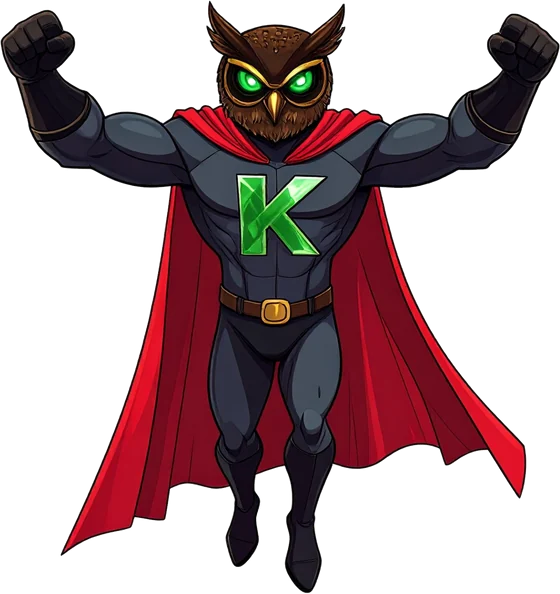
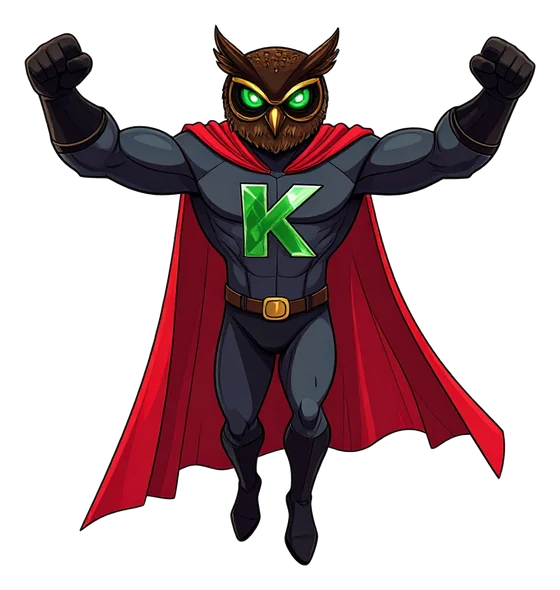
Hero comes alive: billowing cape, glowing K and eyes, real dive motion
The hero is now a body layer over a separate cape, with clean edges (no
white outline). The cape sways while he hovers and flutters while he
moves; the K and eyes pulse green. He crouches before the dive, wobbles
and stretches as he falls, squashes on each rip, and trails speed lines.
Removed the hand-drawn birds that didn't match the art.

Claude-Session: https://claude.ai/code/session_01AFesTq58cik2Kzgpt88zTm

Changed region(s): [[0.0, 0.0, 1.0, 1.0]]

diff --git a/index.html b/index.html
@@ -223,17 +223,49 @@ button{cursor:pointer}
   content:"";position:absolute;inset:0;pointer-events:none;opacity:.7;mix-blend-mode:multiply;z-index:0;
   background:linear-gradient(115deg,#ffd400,#ff7ac6,#7fe0ff,#b9ff9e,#ffd400);background-size:300% 300%;animation:foil 3.5s linear infinite;
 }
-/* Hero: one drawing. Upright to hover and fly up, flipped head-first for the dive. */
+/* Hero: a body layer over a cape layer, with glowing K and eyes. Upright to hover and fly up,
+   flipped head-first for the dive. The cape billows from the shoulders. */
 .hero{position:absolute;left:0;top:0;width:var(--hw);height:var(--hh);z-index:6;pointer-events:none;will-change:transform}
 .hero .bob{position:relative;width:100%;height:100%}
-.hero.hovering .bob{animation:bob 2.2s ease-in-out infinite}
-.hero .hs{position:absolute;left:50%;top:50%;height:112%;width:auto;max-width:none;transform:translate(-50%,-50%);transition:transform .34s cubic-bezier(.3,1.45,.5,1);user-select:none;-webkit-user-drag:none}
-.hero:not(.up) .hs{transform:translate(-50%,-50%) rotate(180deg)}
-@keyframes bob{0%,100%{transform:translateY(0) rotate(-1.5deg)}50%{transform:translateY(-8px) rotate(1.5deg)}}
-.aura{position:absolute;left:50%;bottom:calc(var(--hw) * -0.28);width:calc(var(--hw) * 1.25);height:calc(var(--hw) * 0.42);transform:translateX(-50%);opacity:0;transition:opacity .3s}
+.hero.hovering .bob{animation:bob 2.4s ease-in-out infinite}
+@keyframes bob{0%,100%{transform:translateY(0) rotate(-2deg)}50%{transform:translateY(-10px) rotate(2deg)}}
+.hero .fig{position:absolute;left:50%;top:50%;height:114%;aspect-ratio:560/590;transform:translate(-50%,-50%);transition:transform .34s cubic-bezier(.3,1.45,.5,1)}
+.hero:not(.up) .fig{transform:translate(-50%,-50%) rotate(180deg)}
+.hero .wob{position:absolute;inset:0;transform-origin:50% 55%}
+.hero .l{position:absolute;inset:0;width:100%;height:100%;display:block;user-select:none;-webkit-user-drag:none}
+.hero .cape{transform-origin:50% 27%}
+.hero .kg,.hero .eg{opacity:.3}
+.hero.hovering .wob{animation:breathe 2.4s ease-in-out infinite}
+@keyframes breathe{0%,100%{transform:scale(1,1)}50%{transform:scale(1.02,1.035)}}
+.hero.hovering .cape{animation:capeIdle 2.8s ease-in-out infinite}
+@keyframes capeIdle{0%,100%{transform:skewX(0deg) scale(1,1)}25%{transform:skewX(4deg) scale(1.04,1.02)}50%{transform:skewX(0deg) scale(1.08,.98)}75%{transform:skewX(-4deg) scale(1.04,1.02)}}
+.hero.hovering .kg{animation:glowk 2.4s ease-in-out infinite}
+.hero.hovering .eg{animation:glowk 3.2s ease-in-out infinite .7s}
+@keyframes glowk{0%,100%{opacity:.25}50%{opacity:1}}
+.hero.falling .wob,.hero.rising .wob{animation:wobble .34s ease-in-out infinite alternate}
+@keyframes wobble{from{transform:rotate(-5deg) scale(.95,1.08)}to{transform:rotate(5deg) scale(.95,1.08)}}
+.hero.falling .cape,.hero.rising .cape{animation:capeFlap .18s ease-in-out infinite alternate}
+@keyframes capeFlap{from{transform:skewX(-8deg) scale(.95,1.06)}to{transform:skewX(8deg) scale(1.06,1.14)}}
+.hero.falling .kg,.hero.rising .kg,.hero.falling .eg,.hero.rising .eg{opacity:.95}
+/* speed lines trail behind the hero while he dives or climbs */
+.hero .trail{position:absolute;left:8%;right:8%;height:150%;opacity:0;transition:opacity .15s}
+.hero.falling .trail{bottom:70%;opacity:1}
+.hero.rising .trail{top:70%;opacity:1}
+.trail i{position:absolute;top:0;width:3px;border-radius:3px;background:#fff;box-shadow:0 0 0 1.5px var(--ink);animation:speedDn .3s linear infinite}
+.hero.rising .trail i{animation-name:speedUp}
+.trail i:nth-child(1){left:6%;height:42%;animation-delay:-.05s}
+.trail i:nth-child(2){left:24%;height:60%;animation-delay:-.2s}
+.trail i:nth-child(3){left:42%;height:34%;animation-delay:-.12s}
+.trail i:nth-child(4){left:58%;height:56%;animation-delay:-.26s}
+.trail i:nth-child(5){left:76%;height:38%;animation-delay:-.09s}
+.trail i:nth-child(6){left:93%;height:50%;animation-delay:-.17s}
+@keyframes speedDn{0%{transform:translateY(-30%);opacity:0}25%{opacity:1}100%{transform:translateY(130%);opacity:0}}
+@keyframes speedUp{0%{transform:translateY(130%);opacity:0}25%{opacity:1}100%{transform:translateY(-30%);opacity:0}}
+.aura{position:absolute;left:50%;bottom:calc(var(--hw) * -0.3);width:calc(var(--hw) * 1.35);height:calc(var(--hw) * 0.45);transform:translateX(-50%);opacity:0;transition:opacity .3s}
 .hero.hovering .aura{opacity:1}
-.aura i{position:absolute;inset:0;border:3px solid #fff;border-radius:50%;box-shadow:0 0 0 2px var(--ink),inset 0 0 0 2px var(--ink);animation:ring 1.5s ease-out infinite}
-.aura i:nth-child(2){animation-delay:.75s}
+.aura::before{content:"";position:absolute;inset:-40% -15%;border-radius:50%;background:radial-gradient(closest-side,rgba(93,255,122,.55),rgba(93,255,122,0));animation:glowk 2.4s ease-in-out infinite}
+.aura i{position:absolute;inset:0;border:3px solid #9dffb0;border-radius:50%;box-shadow:0 0 0 2px var(--ink),inset 0 0 0 2px var(--ink),0 0 12px 2px rgba(93,255,122,.6);animation:ring 1.6s ease-out infinite}
+.aura i:nth-child(2){animation-delay:.8s}
 @keyframes ring{0%{transform:scale(.3);opacity:1}100%{transform:scale(1.2);opacity:0}}
 
 /* Breaking through a panel */
@@ -1010,8 +1042,7 @@ const PANELS={
     +`<i class="streak" style="left:78%;top:5%;animation-delay:-2s"></i><i class="streak" style="left:34%;top:9%;animation-duration:13s;animation-delay:-9s"></i>`},
   a:{img:"p-a",ar:1.7504,ov:()=>
     glow(50,46,32,"255,196,90",6,.45)
-    +`<div class="lane rl" style="top:23%;animation-duration:34s;animation-delay:-9s"><div class="heli drift" style="width:9%"><img src="${ART}heli.webp" alt=""><img class="rotor" src="${ART}rotor.webp" alt=""></div></div>`
-    +`<div class="lane lr" style="top:37%;animation-duration:27s;animation-delay:-16s"><div style="width:4.5%">${BIRDS(4,"#0b0f22")}</div></div>`},
+    +`<div class="lane rl" style="top:23%;animation-duration:34s;animation-delay:-9s"><div class="heli drift" style="width:9%"><img src="${ART}heli.webp" alt=""><img class="rotor" src="${ART}rotor.webp" alt=""></div></div>`},
   t:{img:"p-t",ar:1.7504,ov:()=>
     glow(71,22.5,34,"205,255,190",6,.5)
     +`<div class="rain"><i></i></div><i class="flash"></i>`},
@@ -1019,13 +1050,11 @@ const PANELS={
     sparkles(37,16,10,32,"#ffe9a8",.6)+glow(50,62,44,"255,220,90",4.5,.35)
     +`<div class="river" style="left:37.5%;top:79%;width:26%;height:21%"><i></i></div>`},
   c:{img:"p-c",ar:1.7886,ov:()=>
-    `<div class="lane lr" style="top:25%;animation-duration:24s;animation-delay:-5s"><div class="drift" style="width:6.5%">${PLANE.replace('<svg ','<svg style="transform:scaleX(-1)" ')}</div></div>`
-    +`<div class="lane rl" style="top:40%;animation-duration:33s;animation-delay:-20s"><div style="width:4%">${BIRDS(3,INK)}</div></div>`},
+    `<div class="lane lr" style="top:25%;animation-duration:24s;animation-delay:-5s"><div class="drift" style="width:6.5%">${PLANE.replace('<svg ','<svg style="transform:scaleX(-1)" ')}</div></div>`},
   d:{img:"p-d",ar:1.8534,ov:()=>
     `<img class="zep" src="${ART}zep1.webp" alt="" style="left:58.4%;top:18.5%;width:12.4%;animation-duration:17s">`
     +`<img class="zep" src="${ART}zep2.webp" alt="" style="left:75.2%;top:26%;width:13.8%;animation-duration:23s;animation-delay:-9s">`
-    +[0,1.5,3].map(dl=>`<i class="puff" style="left:56.7%;top:66.6%;animation-delay:-${dl}s"></i>`).join("")
-    +`<div class="lane lr" style="top:38%;animation-duration:31s;animation-delay:-12s"><div style="width:3.6%">${BIRDS(3,"#1b1712")}</div></div>`},
+    +[0,1.5,3].map(dl=>`<i class="puff" style="left:56.7%;top:66.6%;animation-delay:-${dl}s"></i>`).join("")},
   g:{img:"p-g",ar:1.7809,ov:()=>
     `<img class="balloon" src="${ART}balloon.webp" alt="" style="left:40.6%;top:12%;width:9.1%">`
     +`<img class="glide" src="${ART}birds.webp" alt="" style="left:22.3%;top:53.8%;width:17.7%">`}
@@ -1035,8 +1064,8 @@ const world=$("#world"), reel=$("#reel");
 const panelHTML=(key,cap)=>{const P=PANELS[key];
   return `<section class="era e-${key}"${P.label?` aria-label="${P.label}"`:""} style="--ar:${P.ar}"><div class="art"><img class="pic" src="${ART}${P.img}.webp" alt="" draggable="false" decoding="async"${key==="s"||key==="a"?' fetchpriority="high"':""}><div class="ov">${P.ov()}</div></div>${cap||""}</section>`;};
 reel.innerHTML=panelHTML("s")+TIER_ORDER.map(t=>{const T=TIERS[t];return panelHTML(t,`<span class="cap">${T.name}<i>${T.pts}</i></span>`);}).join("")
-  +`<div class="hero up pose-h hovering" id="hero"><div class="aura"><i></i><i></i></div><div class="bob"><img class="hs" src="${ART}hero.webp" alt="" draggable="false"></div></div>`;
-const hero=$("#hero");
+  +`<div class="hero up pose-h hovering" id="hero"><div class="aura"><i></i><i></i></div><div class="bob"><div class="fig"><div class="wob"><img class="l cape" src="${ART}hero-cape.webp" alt="" draggable="false"><img class="l body" src="${ART}hero-body.webp" alt="" draggable="false"><img class="l kg" src="${ART}hero-kglow.webp" alt="" draggable="false"><img class="l eg" src="${ART}hero-eyes.webp" alt="" draggable="false"></div></div><div class="trail">${"<i></i>".repeat(6)}</div></div></div>`;
+const hero=$("#hero"), heroBob=hero.querySelector(".bob"), heroWob=hero.querySelector(".wob");
 /* Only animate the panels that are on screen */
 if("IntersectionObserver" in window){
   const io=new IntersectionObserver(es=>{ if(world.classList.contains("moving")) return; es.forEach(e=>e.target.classList.toggle("live",e.isIntersecting)); },{root:world,rootMargin:"60% 0px",threshold:0});
@@ -1151,6 +1180,7 @@ function land(g,d,withBurst){
   if(TIER_ORDER[d-1]==="g"){ g.eras[d].classList.add("hit"); if(withBurst) addBurst(g,landY(g,d)+g.hh*0.4,"1 IN KRYPTILLION!",true); }
 }
 const HOVER_CLS="hero up pose-h hovering";
+function squash(){ heroBob.animate([{transform:"scale(1.22,.78)"},{transform:"scale(.94,1.08)",offset:.55},{transform:"scale(1,1)"}],{duration:260,easing:"ease-out"}); }
 function finalState(d){
   const g=geo(); clearMarks(); hero.className=HOVER_CLS;
   if(d<=0){ setHero(g,g.hover); setCam(0); return; }
@@ -1170,9 +1200,11 @@ async function dive(d){
   if(reduceMotion()){ finalState(d); WS.busy=false; return; }
   const tears=[]; (async()=>{ for(let i=1;i<=d;i++){ if(!tears[i-1]) tears[i-1]=addTear(g,i,true); await new Promise(r=>requestAnimationFrame(r)); } })();
   const sp=()=>G.fast?0.2:1;                         /* a tap speeds the fall up instead of skipping it */
-  hero.classList.remove("pose-h","hovering");       /* fists up, ready */
-  await sleep(160*sp());
-  hero.classList.remove("up");                       /* flip head-down into the dive */
+  hero.classList.remove("pose-h","hovering");       /* crouch, ready */
+  const crouch=heroWob.animate([{transform:"scale(1,1)"},{transform:"scale(1.1,.86) translateY(6%)"}],{duration:170*sp(),easing:"ease-out",fill:"forwards"});
+  await sleep(170*sp());
+  crouch.cancel();
+  hero.classList.remove("up"); hero.classList.add("falling");   /* flip head-down into the dive */
   SND.dive(); setMoving(true);
   await sleep(380*sp());
   let y=WS.heroY, c=WS.cam;
@@ -1188,7 +1220,7 @@ async function dive(d){
     const by=g.eras[i].offsetTop, toY=by-g.hh+Math.round(g.hh*0.22);
     const dur=Math.max(460,Math.min(820,(toY-y)*1.0))*Math.max(0.82,1-(i-1)*0.05);
     await seg(toY,follow(toY),dur,"cubic-bezier(.5,0,1,1)");
-    openTear(tears[i-1]||(tears[i-1]=addTear(g,i,true))); addImpact(g,by); addShards(g,by); shakeWorld(G.fast?2:3+i*1.2);
+    openTear(tears[i-1]||(tears[i-1]=addTear(g,i,true))); addImpact(g,by); squash(); addShards(g,by); shakeWorld(G.fast?2:3+i*1.2);
     if(!G.fast||i===d){ addBurst(g,by,SFX[i-1],false); SND.impact(i); SND.rip(i); }
     await sleep(210*sp());
   }
@@ -1196,7 +1228,7 @@ async function dive(d){
   /* carry through the hole and slow down inside the panel */
   await seg(ly+Math.round(g.hh*0.38),camFor(g,d),520,"cubic-bezier(0,0,.3,1)");
   /* flip upright and spring into a hover */
-  hero.classList.add("up"); SND.flip();
+  hero.classList.remove("falling"); hero.classList.add("up"); SND.flip();
   addWhoosh(g,y,"FWOOSH!");
   await seg(ly,camFor(g,d),520,"cubic-bezier(.34,1.56,.64,1)");
   hero.className=HOVER_CLS; land(g,d,true); if(TIER_ORDER[d-1]==="g") SND.gem(); else SND.hover();
@@ -1215,7 +1247,7 @@ async function rise(){
   const g=geo();
   reel.querySelectorAll(".boom,.whoosh").forEach(n=>n.remove());
   if(reduceMotion()||(WS.cam===0&&WS.heroY===g.hover)){ resetWorld(); return; }
-  hero.className="hero up";                          /* fists up, fly */
+  hero.className="hero up rising";                   /* fists up, fly */
   await sleep(240);
   addWhoosh(g,WS.heroY-g.hh*0.2,"ZOOM!"); SND.rise(); setMoving(true);
   const tears=[...reel.querySelectorAll(".tear")], y0=WS.heroY, y1=g.hover;
